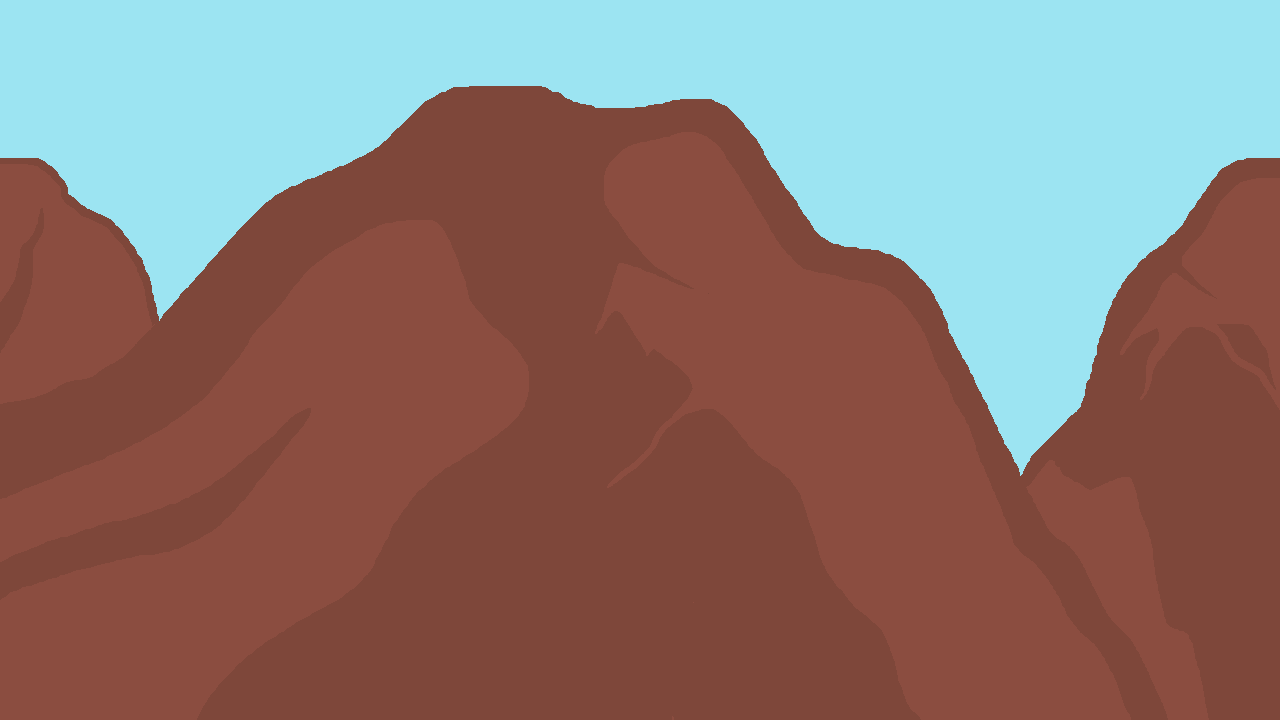
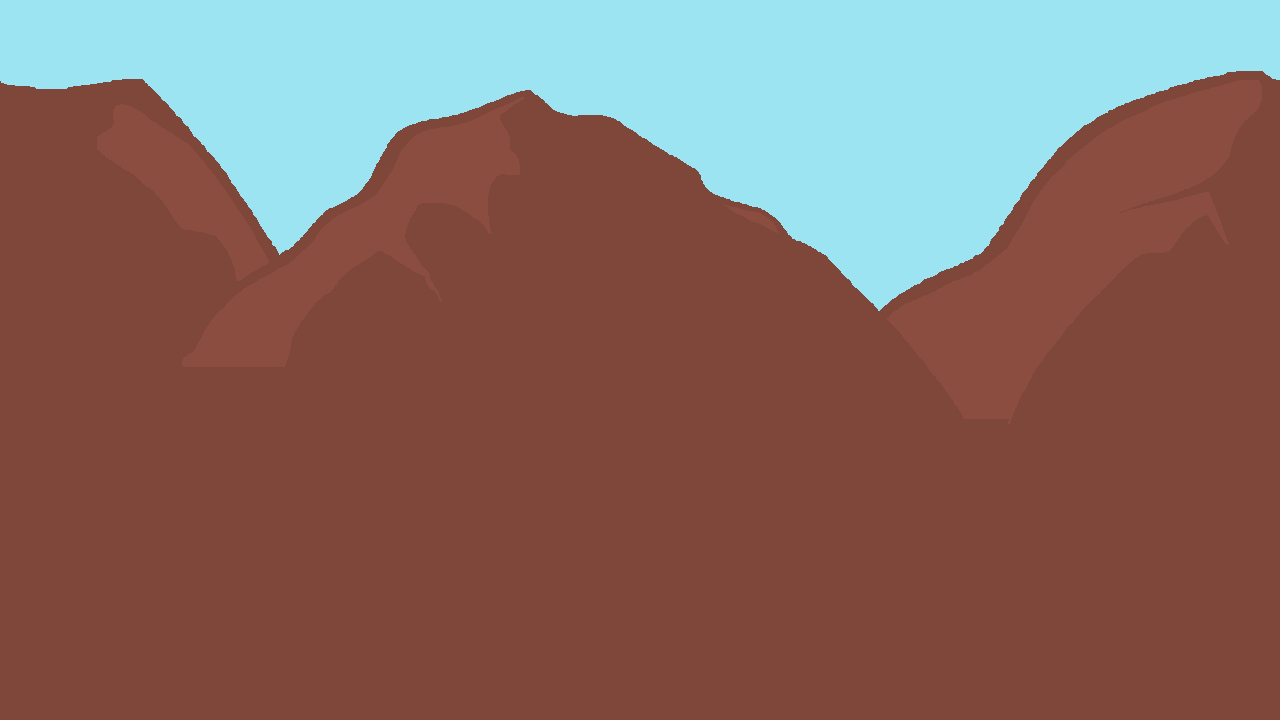
Add a new animated background

Changed region(s): [[0.3125, 0.0917, 1.0, 0.6417], [0.0, 0.0917, 0.3125, 0.4278]]

diff --git a/main.py b/main.py
@@ -10,7 +10,7 @@ screen = pygame.display.set_mode((weight,hight))
 pygame.display.set_caption('EarthCare')
 
 #Background
-background = pygame.image.load("Backgrounds/Forest/Background_forest_0.png").convert()
+background = pygame.image.load("Backgrounds/Forest/Background_forest.png").convert()
 x=0
 
 #Bucle game
